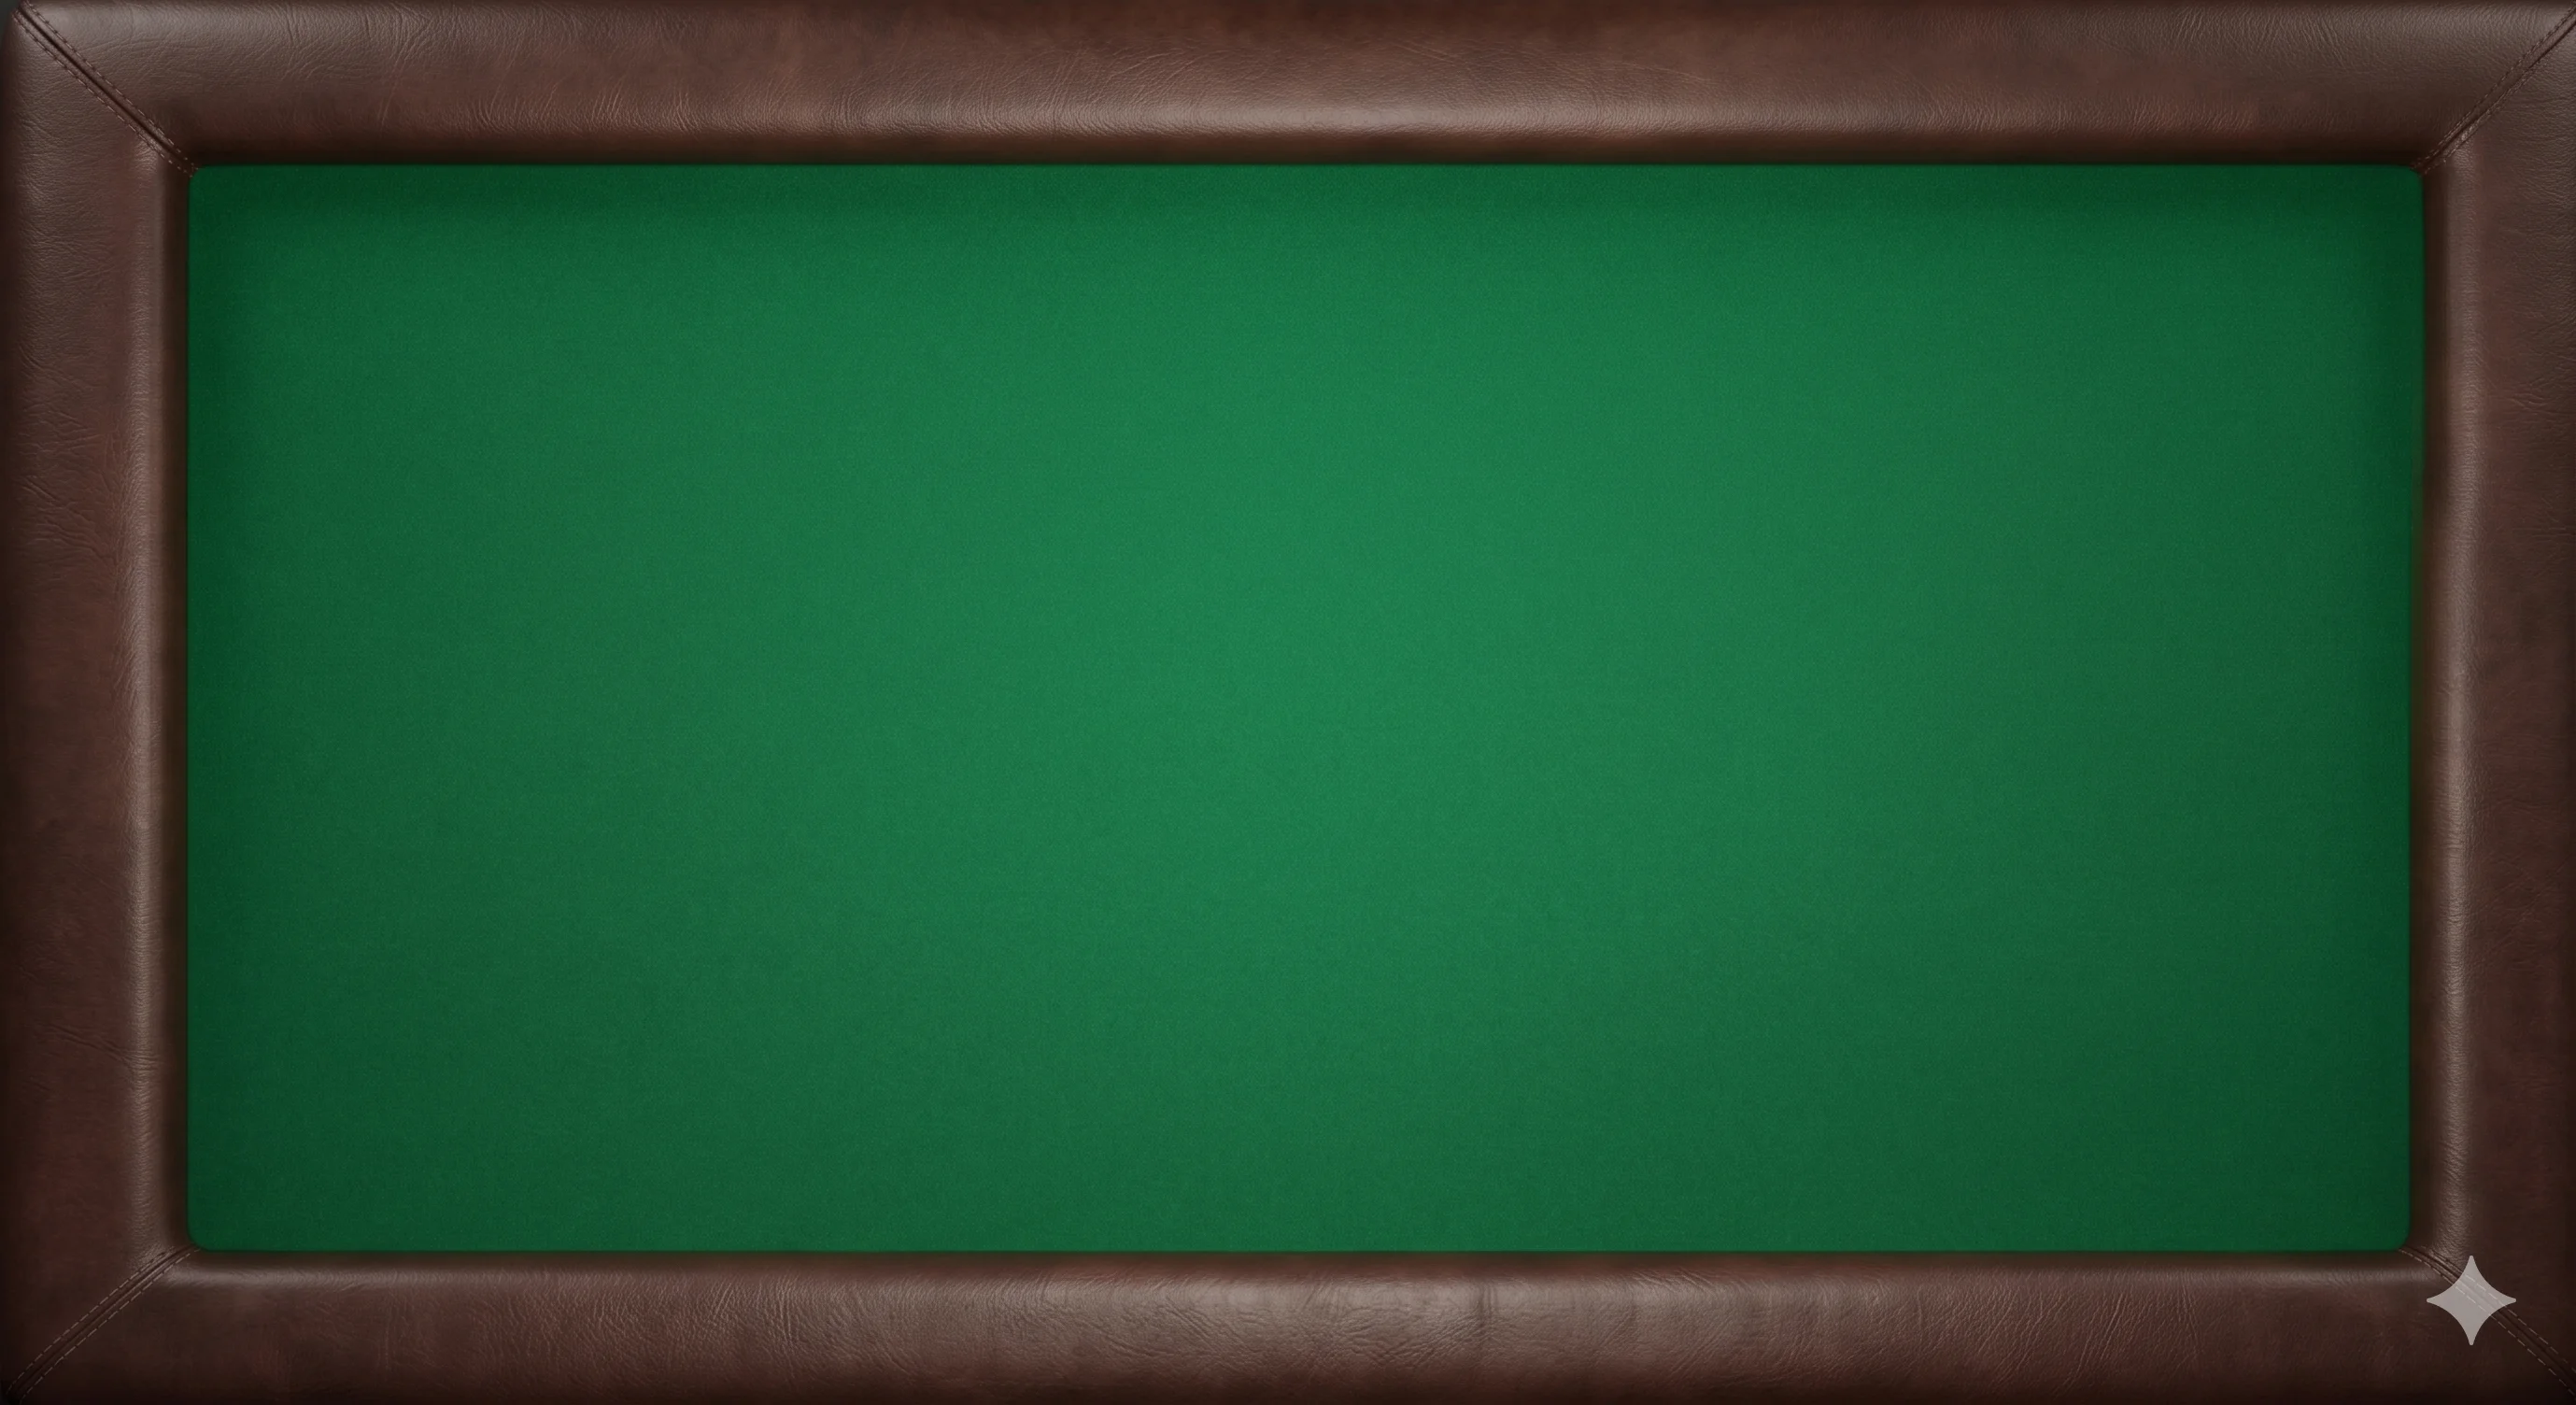
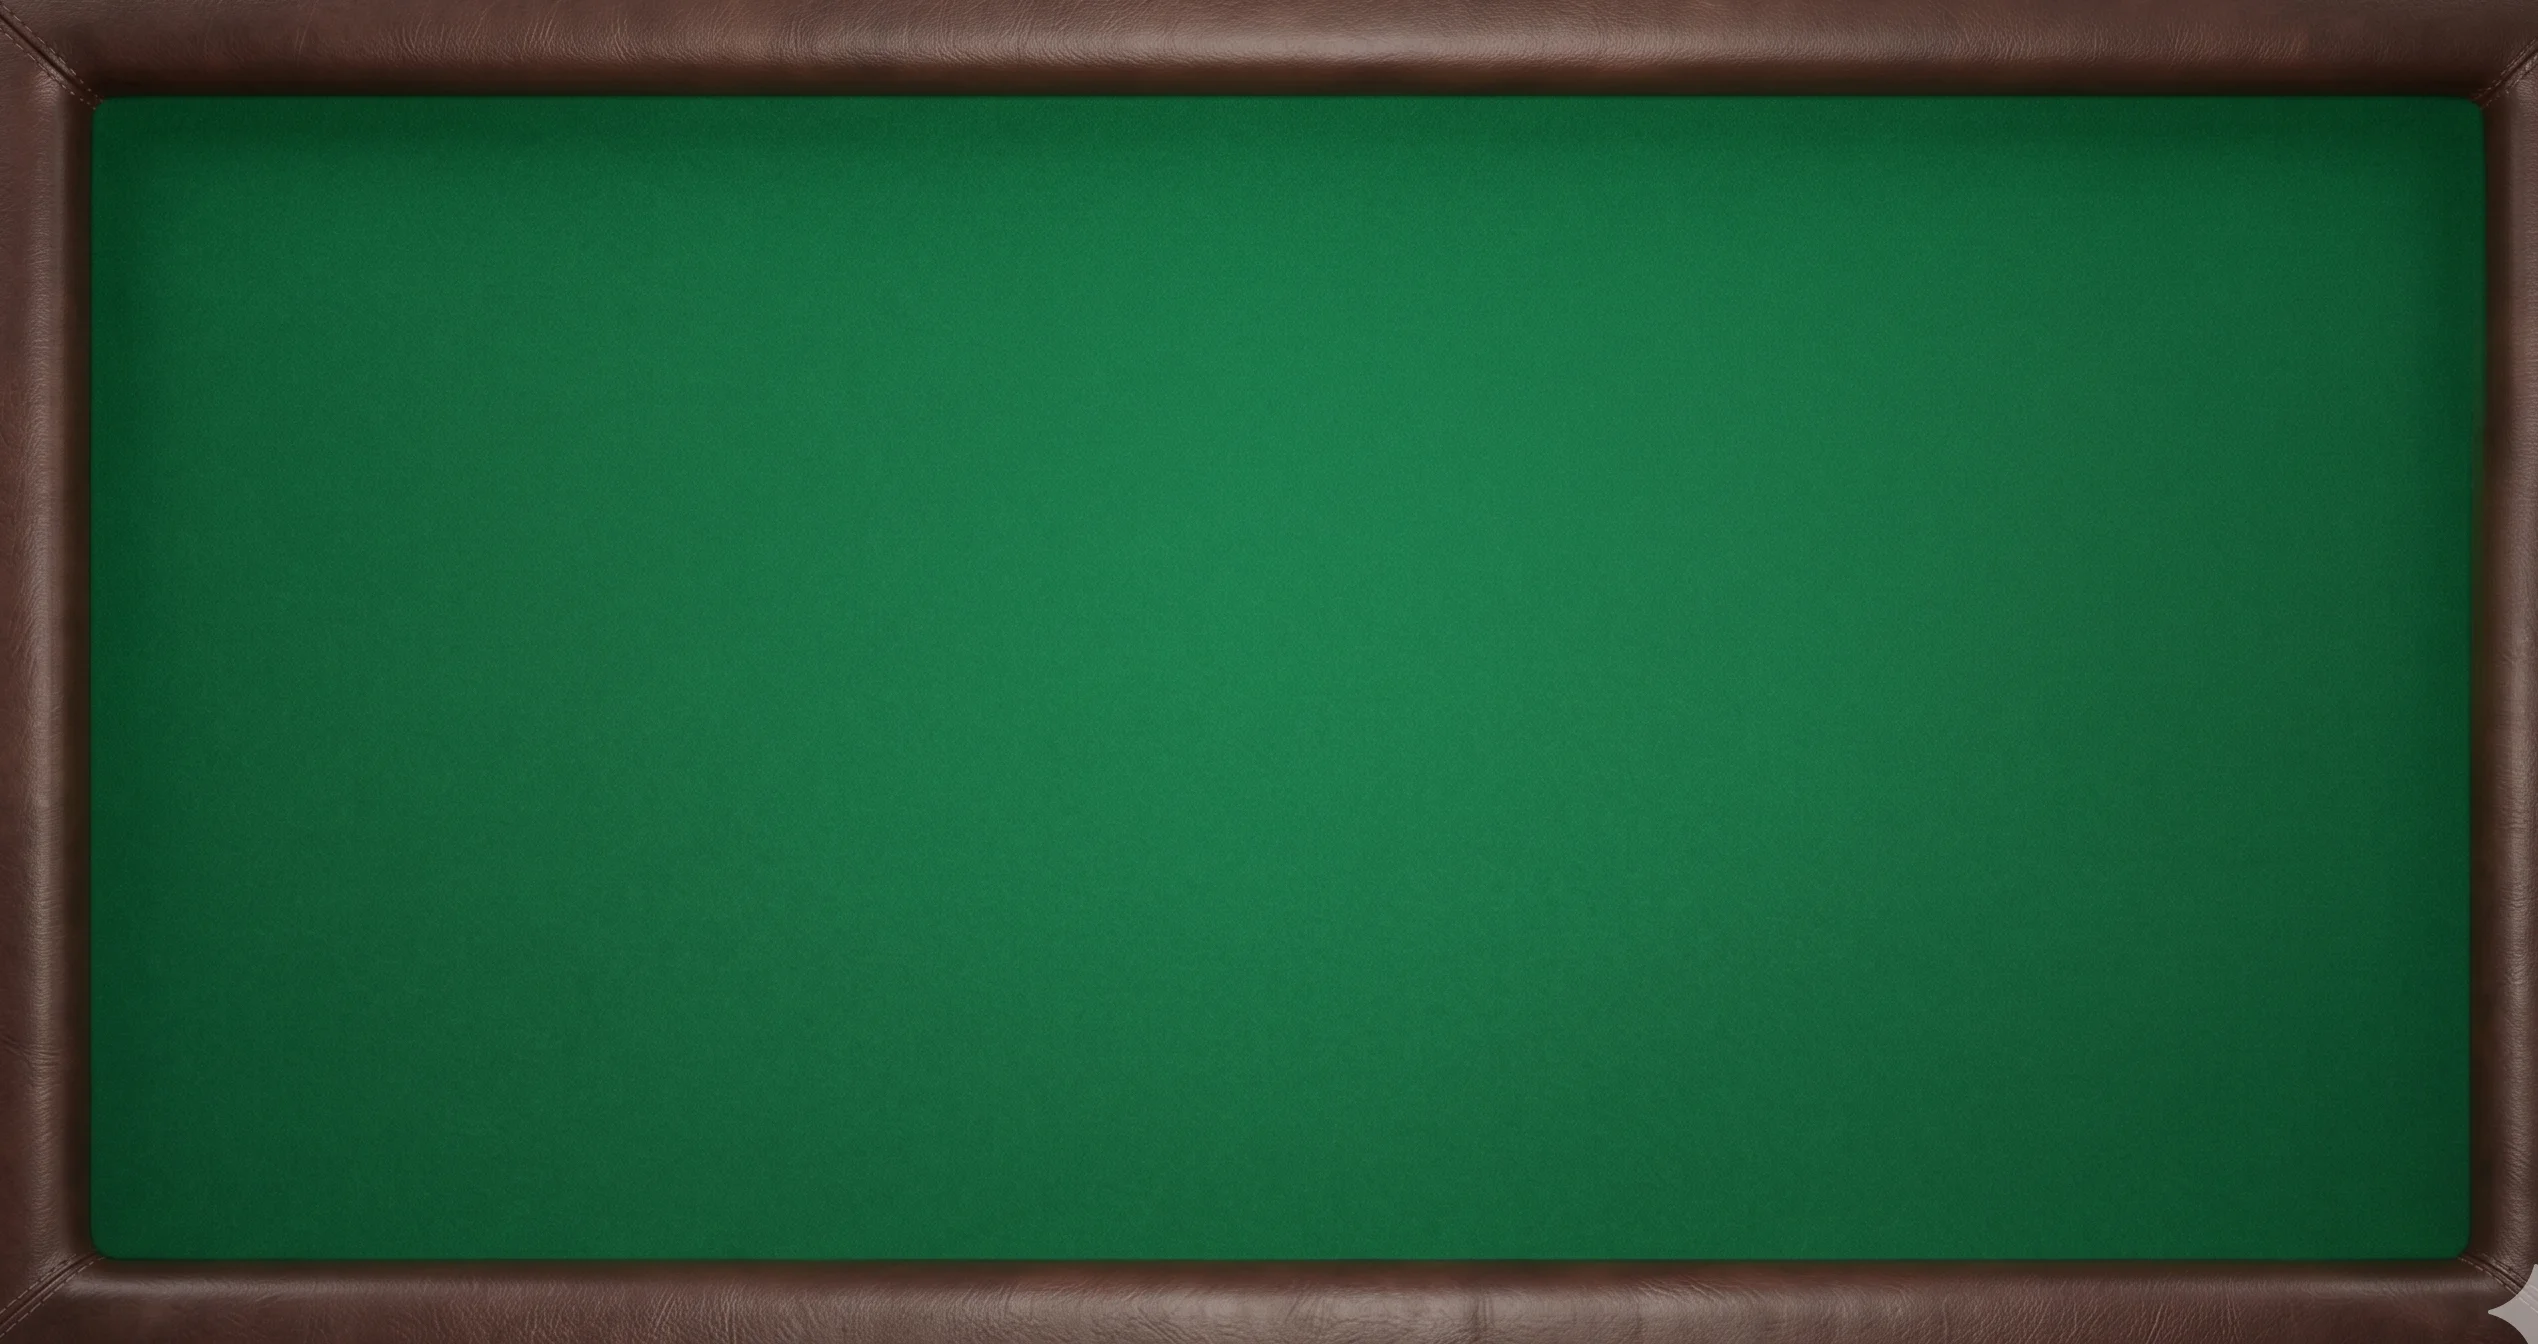
style: Crop outer wood floor from table background image and adjust board safety margins

Changed region(s): [[0.0, 0.0, 1.0, 1.0]]

diff --git a/frontend/src/components/game/Board.jsx b/frontend/src/components/game/Board.jsx
@@ -211,9 +211,9 @@ export default function Board({ board, ends, boardShape = 'l' }) {
   const offsetY = -minY + PADDING;
 
   // Restrict scaling area to keep tiles within the green felt region of the table image,
-  // excluding the brown wood border frame (approx 9% border on sides, 11% top/bottom).
-  const scaleX = size.width > 0 ? (size.width * 0.82) / naturalWidth : 1;
-  const scaleY = size.height > 0 ? (size.height * 0.72) / naturalHeight : 1;
+  // excluding the brown leather frame (approx 3.5% border on sides, 7% top/bottom in the cropped image).
+  const scaleX = size.width > 0 ? (size.width * 0.92) / naturalWidth : 1;
+  const scaleY = size.height > 0 ? (size.height * 0.82) / naturalHeight : 1;
   const scale = Math.min(scaleX, scaleY, 1);
 
   const scaledWidth = naturalWidth * scale;